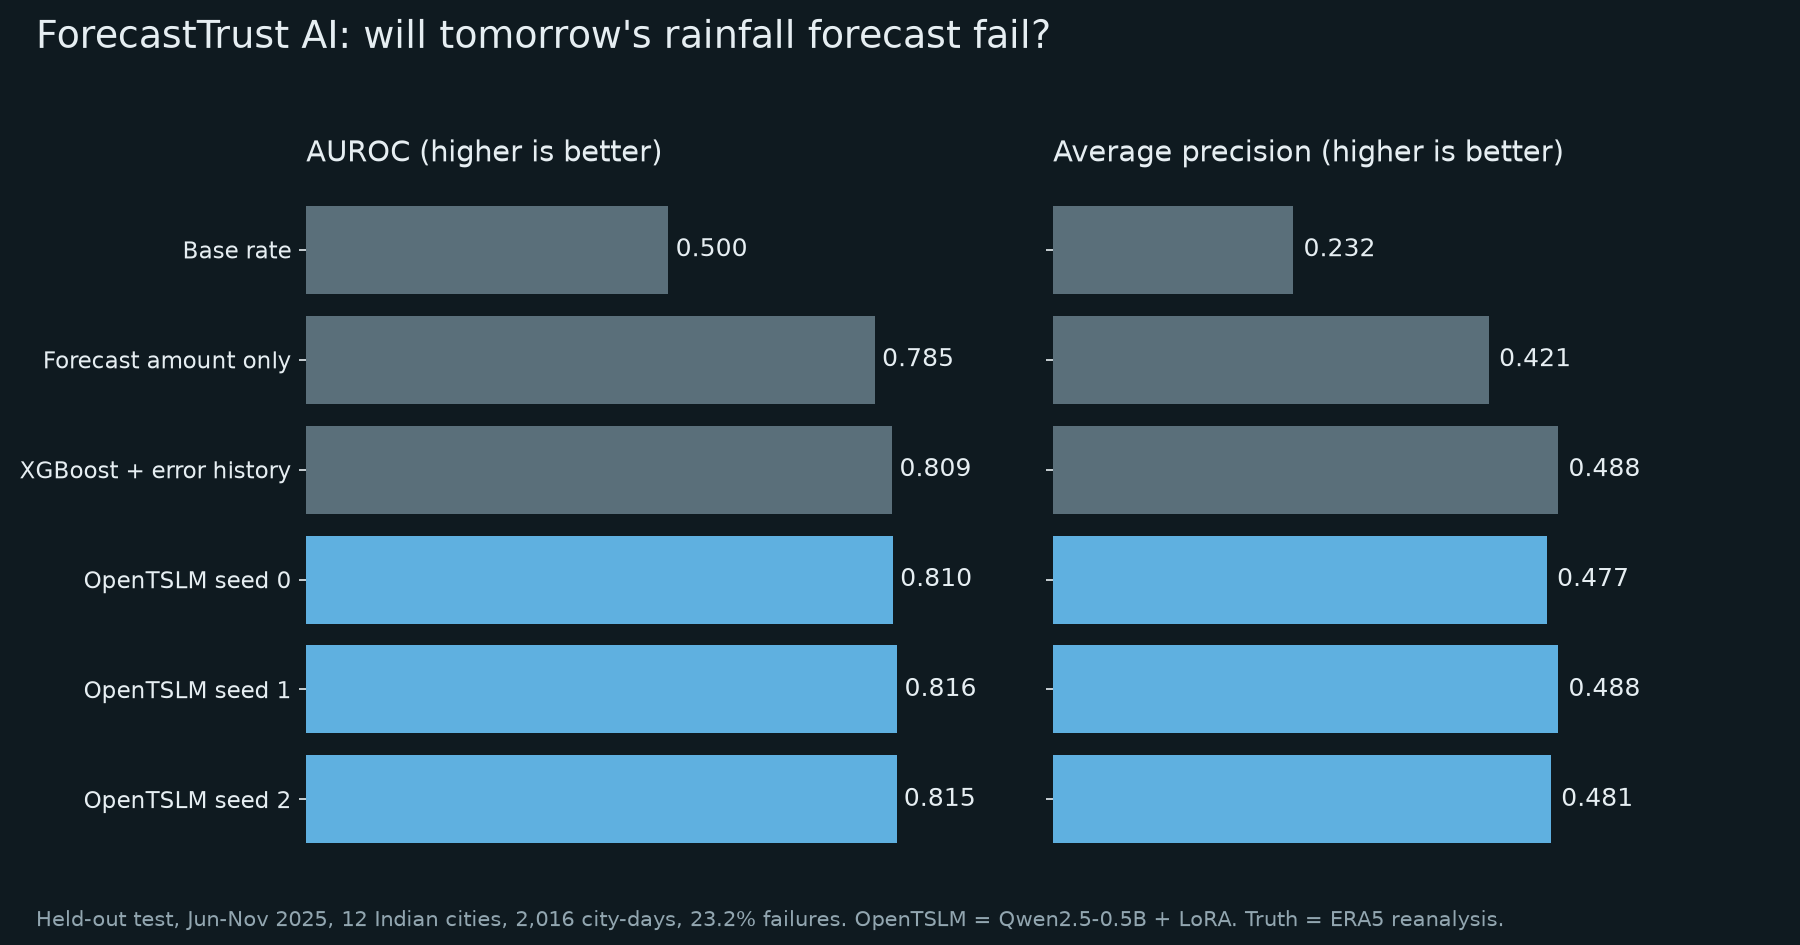
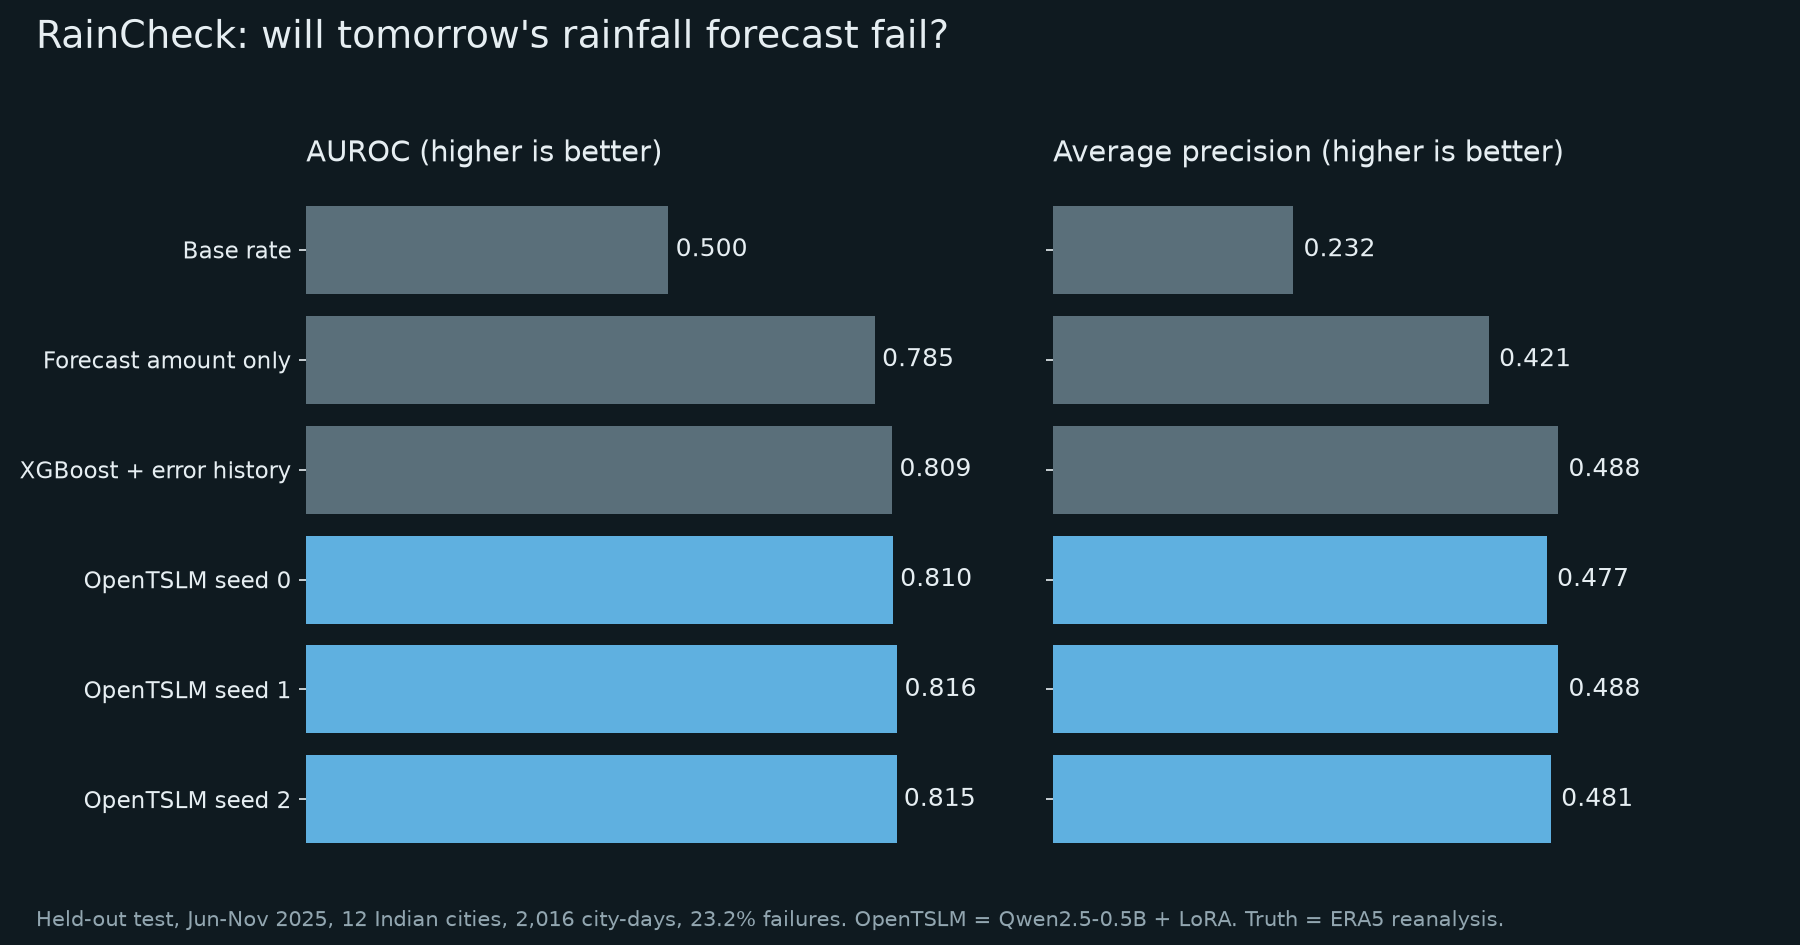
chore: rename the project to RainCheck

Changed region(s): [[0.0311, 0.0, 0.5911, 0.0614]]

diff --git a/demo/page.html b/demo/page.html
@@ -1,4 +1,4 @@
-<title>ForecastTrust AI</title>
+<title>RainCheck</title>
 <meta name="claude:viewport-fit-sides" content="cover">
 <link rel="stylesheet" href="https://fonts.googleapis.com/css2?family=Inter:wght@400;500;600&family=Space+Grotesk:wght@500;700&display=swap">
 <style>
@@ -45,7 +45,7 @@ small{color:var(--mute)}
 
 <main>
 <header>
-<h1>ForecastTrust AI</h1>
+<h1>RainCheck</h1>
 <p class="mute" style="margin-top:10px">Will tomorrow's rainfall forecast fail? The model reads the forecast and the recent record of rain that has been verified, and flags days when the day-ahead ECMWF forecast is likely to miss by more than max(5 mm, 50% of the forecast). It answers before the rain falls.</p>
 </header>
 

diff --git a/demo/template.html b/demo/template.html
@@ -1,4 +1,4 @@
-<title>ForecastTrust AI</title>
+<title>RainCheck</title>
 <meta name="claude:viewport-fit-sides" content="cover">
 <link rel="stylesheet" href="https://fonts.googleapis.com/css2?family=Inter:wght@400;500;600&family=Space+Grotesk:wght@500;700&display=swap">
 <style>
@@ -45,7 +45,7 @@ small{color:var(--mute)}
 
 <main>
 <header>
-<h1>ForecastTrust AI</h1>
+<h1>RainCheck</h1>
 <p class="mute" style="margin-top:10px">Will tomorrow's rainfall forecast fail? The model reads the forecast and the recent record of rain that has been verified, and flags days when the day-ahead ECMWF forecast is likely to miss by more than max(5 mm, 50% of the forecast). It answers before the rain falls.</p>
 </header>
 

diff --git a/training/train_forecasttrust.py b/training/train_forecasttrust.py
@@ -1,4 +1,4 @@
-"""Fine-tune OpenTSLM-SP (frozen LLM + LoRA, trainable encoder and projector) on ForecastTrust.
+"""Fine-tune OpenTSLM-SP (frozen LLM + LoRA, trainable encoder and projector) on RainCheck.
 
 Samples come from the TimeNet dataset forecasttrust/india-rainfall-reliability with its stored
 chronological splits. The model answers "reliable" or "failure". The score used for AUROC, average

diff --git a/README.md b/README.md
@@ -1,8 +1,8 @@
-# ForecastTrust AI
+# RainCheck
 
 **Will tomorrow's rainfall forecast fail? Find out before the rain falls.**
 
-Weather apps show one rainfall number and no sign of how far to trust it. ForecastTrust AI reads the
+Weather apps show one rainfall number and no sign of how far to trust it. RainCheck reads the
 recent forecasts for a city and the rain that has been verified so far, and predicts whether the
 day-ahead forecast will miss by more than max(5 mm, 50% of the forecast). It answers on the day the
 forecast is issued, before the rain is observed.
